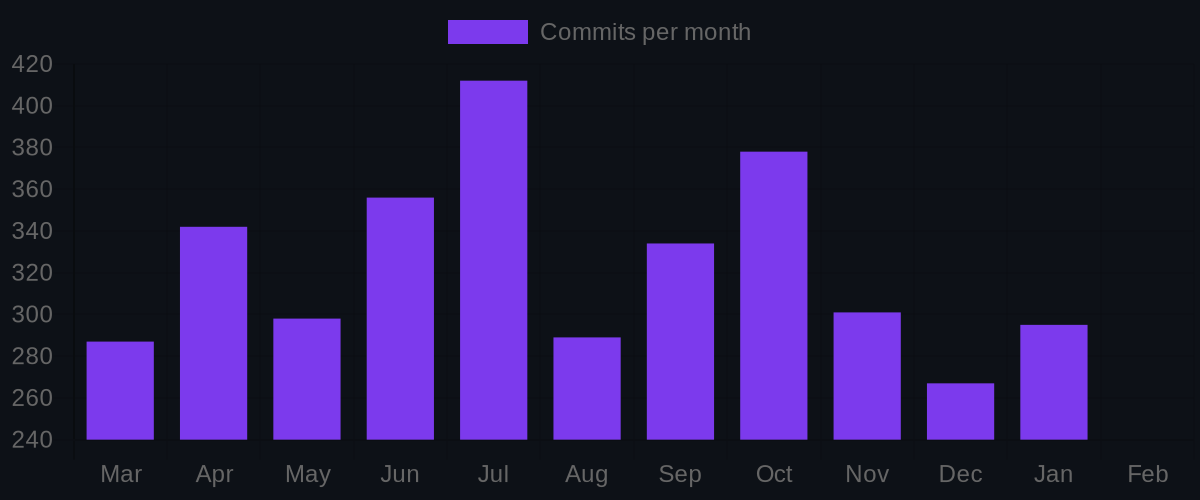
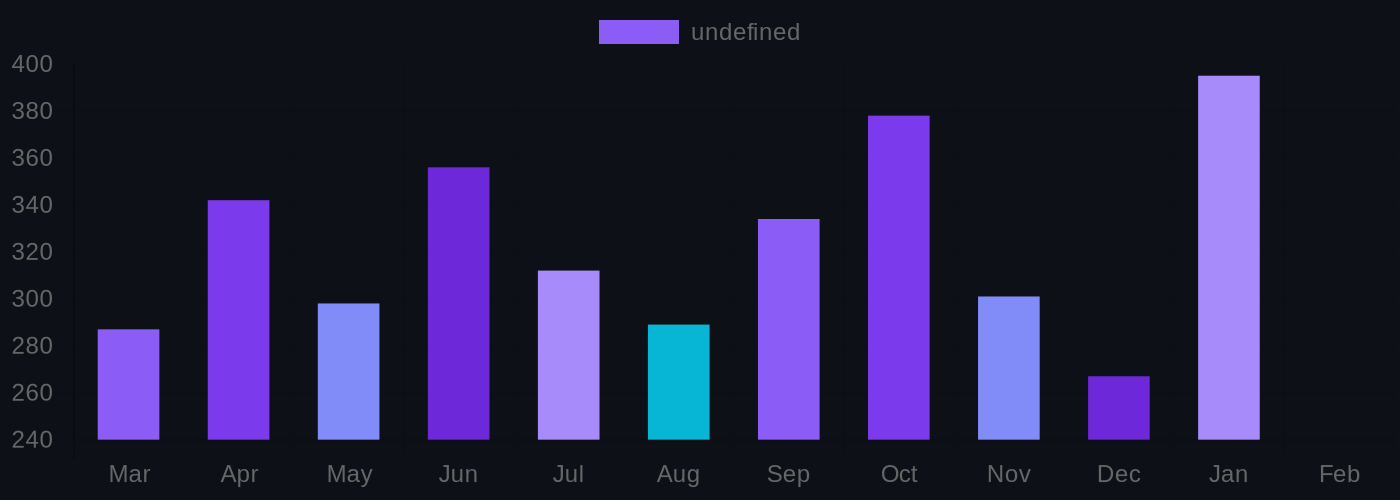
feat: gradient bar chart + big number stats (matching portfolio style)

diff --git a/README.md b/README.md
@@ -84,13 +84,14 @@
 
 > Most of my professional work lives on AWS CodeCommit (private). GitHub shows personal and side projects.
 
-<img src="aws-commits-chart.png" alt="AWS CodeCommit Commits by Repo" />
+<img src="aws-commits-chart.png" alt="AWS CodeCommit Monthly Commits" />
 
 <table>
 <tr>
-<td><img src="aws-commits-donut.png" width="200" alt="3,799 Commits" /></td>
-<td><img src="aws-lines-donut.png" width="200" alt="2.5M+ Lines" /></td>
-<td><img src="aws-files-donut.png" width="200" alt="5,946 Files" /></td>
+<td align="center"><h3>🟣 3,799</h3><sub>Total Commits</sub></td>
+<td align="center"><h3>🔵 2.5M+</h3><sub>Lines Added</sub></td>
+<td align="center"><h3>🟣 5,946</h3><sub>Files Modified</sub></td>
+<td align="center"><h3>🟠 7</h3><sub>Active Repos</sub></td>
 </tr>
 </table>
 
